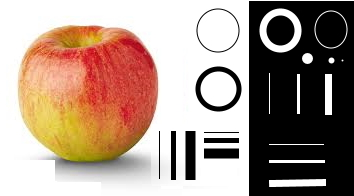
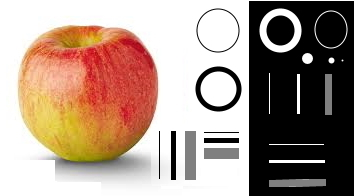
convolution

Changed region(s): [[0.5282, 0.6429, 0.6836, 0.9184], [0.9011, 0.3673, 0.9633, 0.5816], [0.7458, 0.8878, 0.9322, 0.9796]]

diff --git a/5_filter2D.cpp b/5_filter2D.cpp
@@ -1,0 +1,58 @@
+#include <opencv2/opencv.hpp>
+
+int main(){
+    // cv::Mat_<float> image(5, 5);
+    // image << 255, 255, 255, 000, 000,
+    //          255, 255, 255, 000, 000,
+    //          255, 255, 255, 000, 000,
+    //          000, 000, 000, 000, 000,
+    //          000, 000, 000, 000, 000;
+
+    cv::Mat image = cv::imread("resourses/apple.jpeg");
+    cv::Mat im8, fil2D, filter2D8;
+
+    cv::Mat_<float> kernel(3,3);
+    // detecting edges
+    // kernel << -1,  1, -1,
+    //            1,  0,  1,
+    //           -1,  1, -1;
+
+    // enhance sharpness
+    // kernel << -1,  1, -1,
+    //            1,  1,  1,
+    //           -1,  1, -1;
+    
+    // blur
+    // kernel << 0.11,  0.11, 0.11,
+    //            0.11,  0.11,  0.11,
+    //           0.11,  0.11, 0.11;
+
+    // gauss blur
+    // kernel << 0.0625,  0.125, 0.0625,
+    //            0.125,  0.25,  0.125,
+    //           0.0625,  0.125, 0.0625;
+
+    // emboss
+    // kernel << -1,  -1,  0,
+    //           -1,   0,  1,
+    //            0,   1,  1;
+
+    // motion blur
+    kernel << 0.33,    0,    0, 
+              0,    0.33,    0,
+              0,    0,    0.33;
+
+    cv::namedWindow("image", cv::WINDOW_NORMAL);
+    cv::namedWindow("filter2D", cv::WINDOW_NORMAL);
+
+    cv::filter2D(image, fil2D, -1, kernel);
+
+    image.convertTo(im8, CV_8U);
+    fil2D.convertTo(filter2D8, CV_8U);
+
+    cv::imshow("image", im8);
+    cv::imshow("filter2D", filter2D8);
+
+    cv::waitKey(0);
+    return 0;
+}

diff --git a/README.md b/README.md
@@ -1,4 +1,17 @@
 # Using OpenCV with C++
+
+## Prerequisites
+1) OpenCV library should be installed.
+2) Add to Path environment variable path to ....\OpenCV-MinGW-Build\include and ....\OpenCV-MinGW-Build\x64\mingw\bin
+3) Compilation should be done with explicit including OpenCV libraries. it is example of command:
+```
+g++ -o 2_filtering.exe 2_filtering.cpp -IC:\DY\Programs\OpenCV-MinGW-Build\include -IC:\DY\Programs\OpenCV-MinGW-Build\include\opencv4 -LC:\DY\Programs\OpenCV-MinGW-Build\x64\mingw\lib -lopencv_core455 -lopencv_imgcodecs455 -lopencv_highgui455 -lopencv_imgproc455
+```
+to simplify compilation routine I described those libraries in tasks.json file so VScode use it during build process. 
+
+## Source code files description
 * 1_imshow.cpp - open and display image
 * 2_filtering.cpp - comparation of bilateral filter, Gauss blur and median blur.
 * 3_erosion-dilation.cpp - erosion and delation of image with different kernel size.
+* 4_sobel.cpp - Sobel operator to detect the edges. You can investigate the influence of the arguments (dx, dy, kernel, scale and delta) on the result.
+* 5_filted2D - convolution with custom kernels. Blur, edge detection, sharpness enhancement, motion blur, e.t.c.
